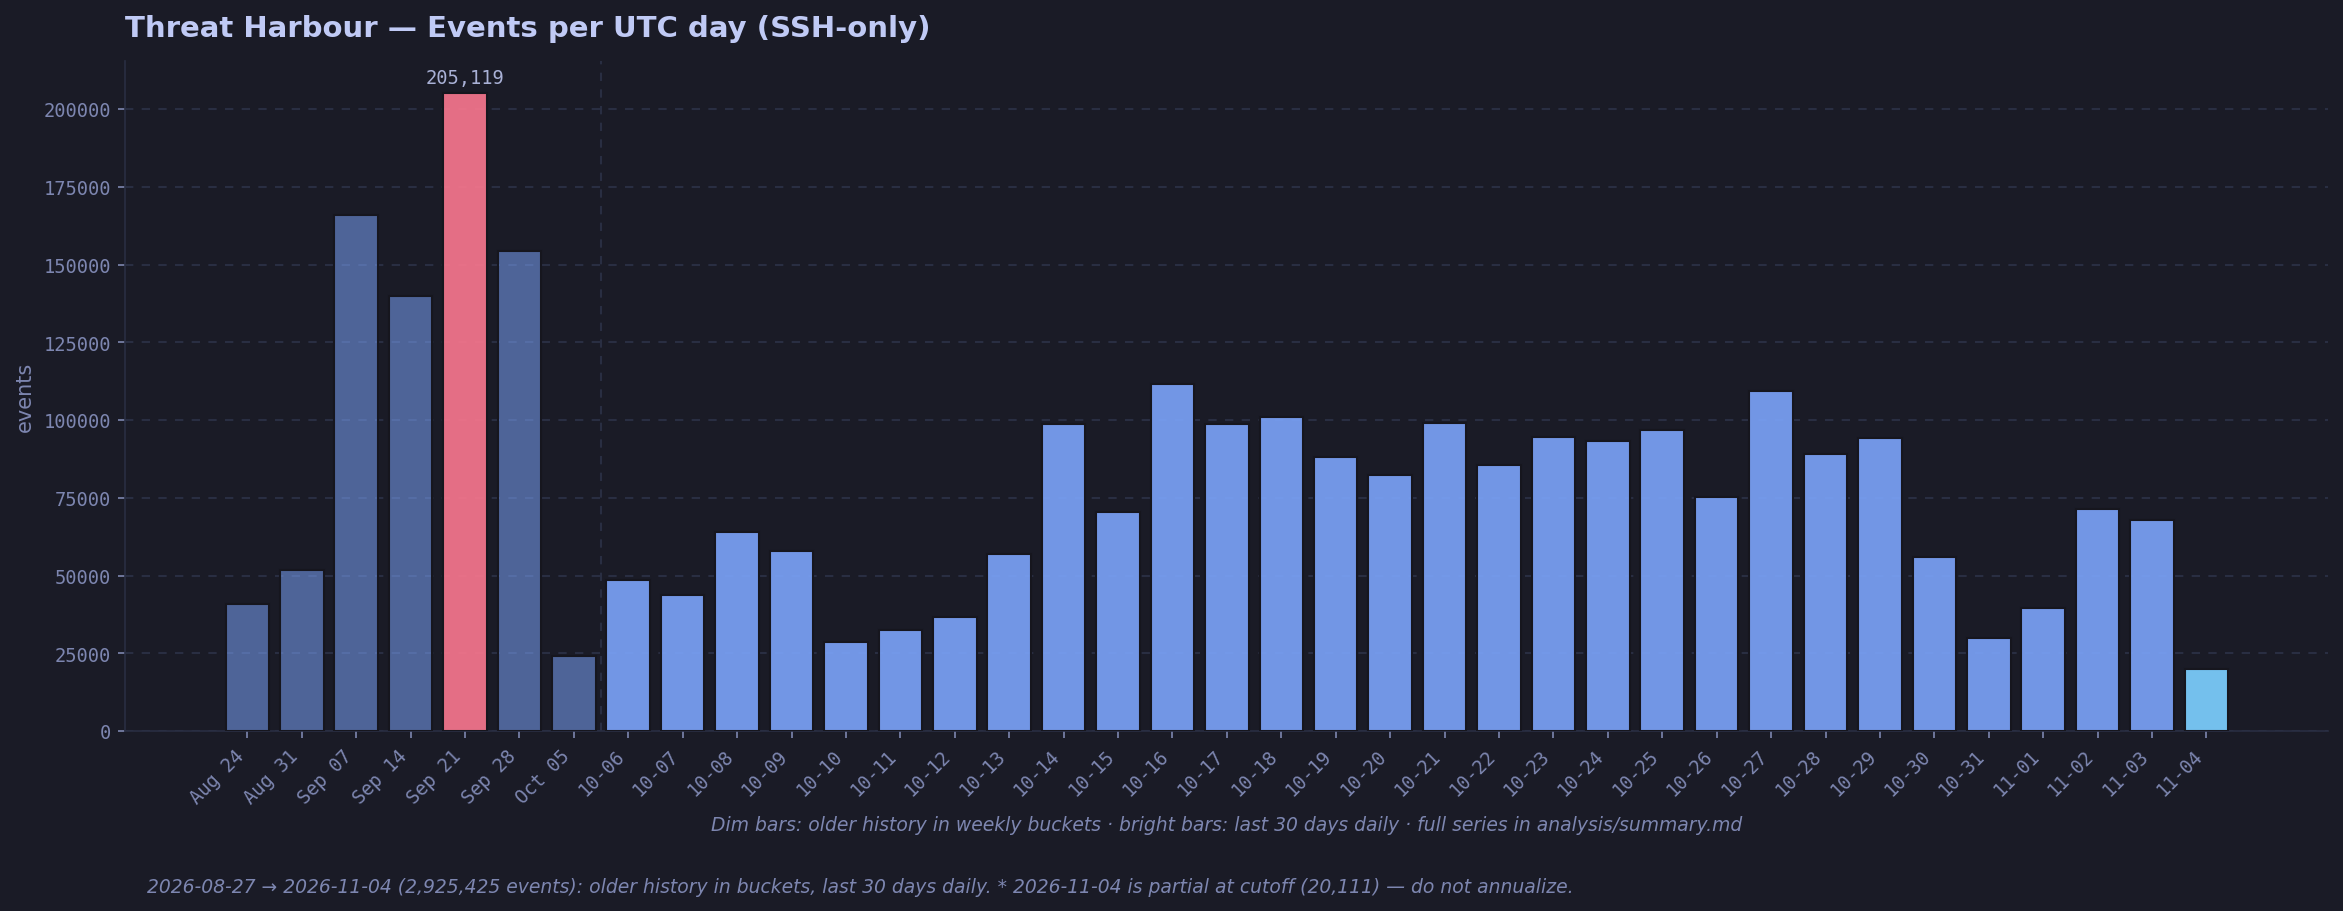
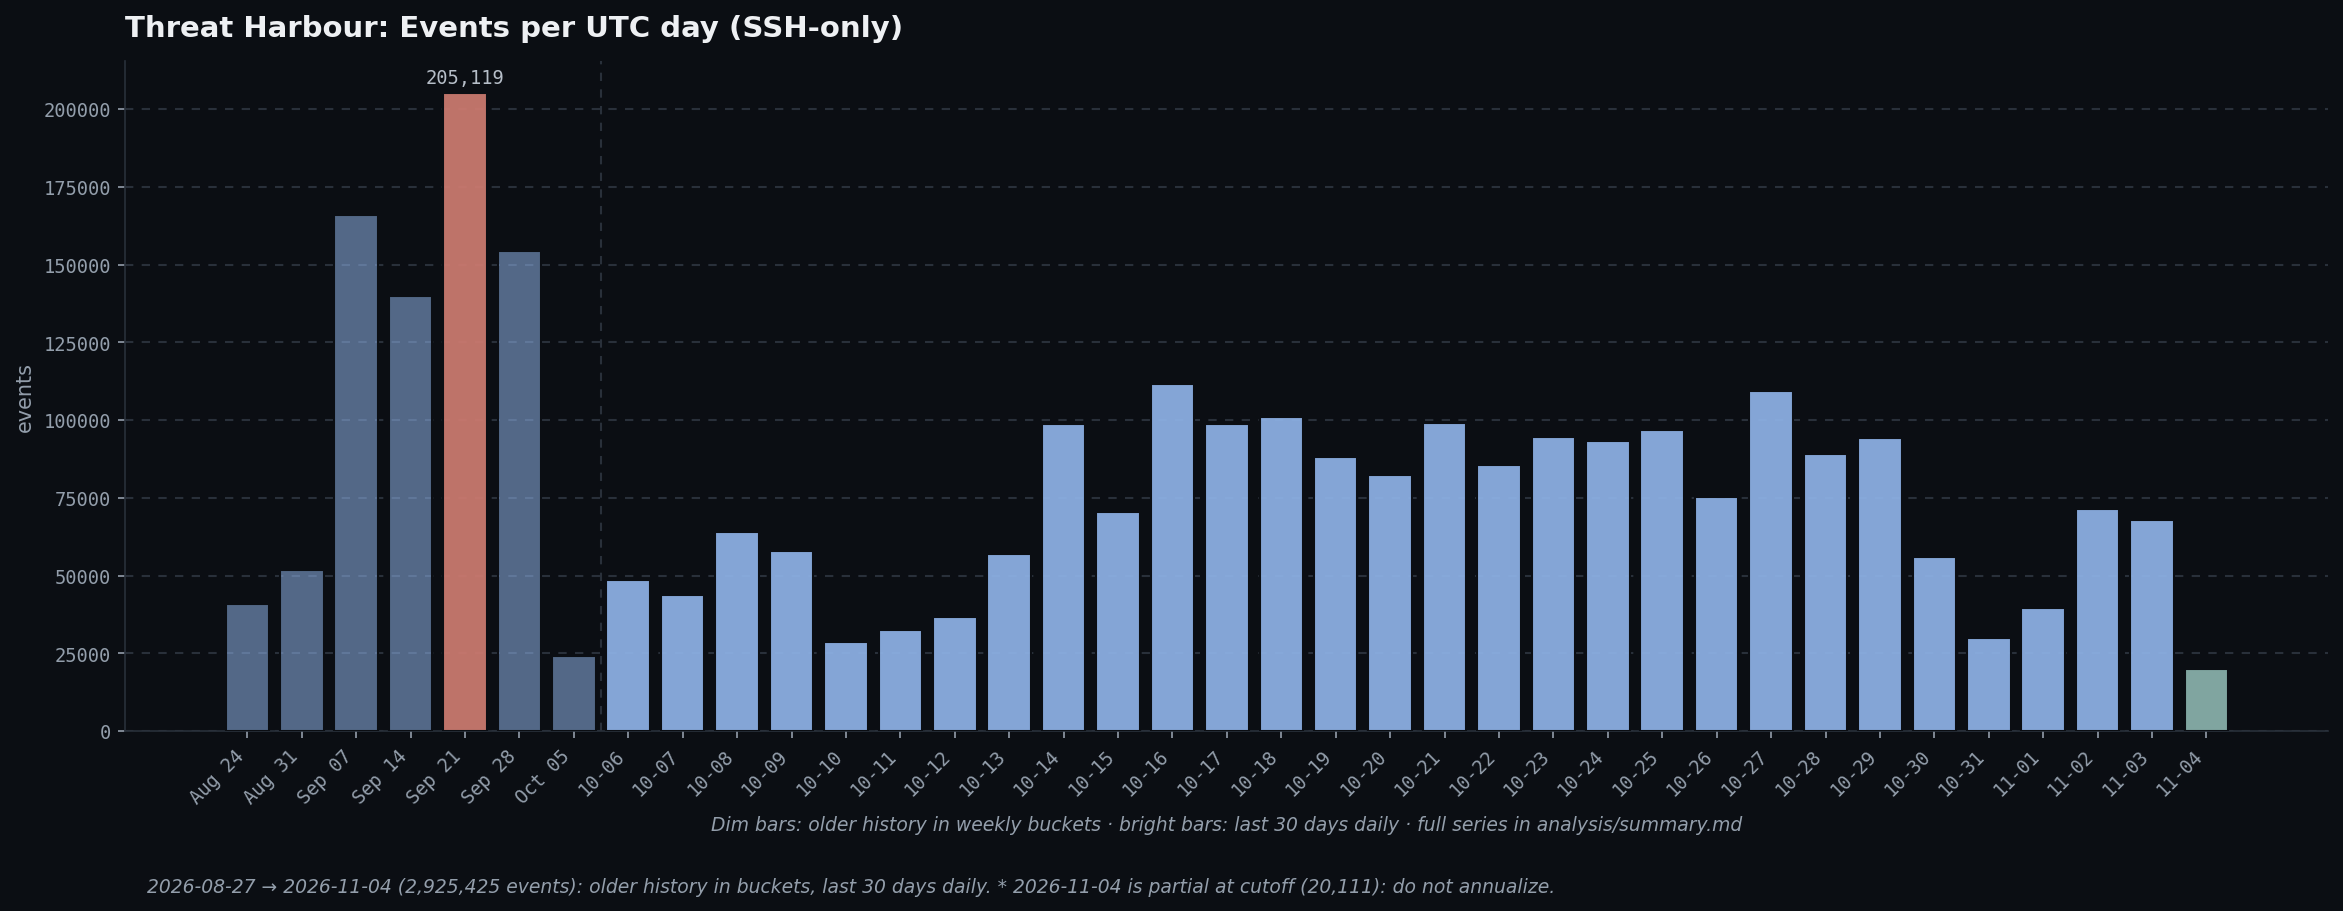
Updated graph colours

diff --git a/scripts/render.py b/scripts/render.py
@@ -47,19 +47,19 @@ WEEKLY_SPAN_LIMIT = 84
 SUMMARY_INLINE_DAYS = 30
 # Absolute-count highlight cutoff (currently unused for colour; kept so
 # archived payloads/metrics carrying it still validate conceptually).
-# Tokyo Night (matches aaadarsh1337.github.io/intel + css/tokens.css).
-# Site chart reference: base bars #7aa2f7 @0.75, peak #f7768e, latest #7dcfff,
-# grid #292e42, values #a9b1d6, axis labels #7d86b0, Mono for numbers.
-T_BG = "#1a1b26"      # --bg-elev (.panel background)
-T_FIG_EDGE = "#16161e"  # --bg (figure edge / bar outlines)
-T_GRID = "#292e42"    # --line
-T_INK = "#c0caf5"     # --ink (titles, values)
-T_MUTED = "#a9b1d6"   # --muted (subtitles, bar labels)
-T_FAINT = "#7d86b0"   # --faint (axis ticks, footers)
-T_BLUE = "#7aa2f7"    # --accent-2 (base bars)
-T_CYAN = "#7dcfff"    # --accent (latest / partial bucket)
-T_PINK = "#f7768e"    # --danger (peak)
-T_PURPLE = "#bb9af7"  # kpi-3 accent (funnel stage 3)
+# Lunar (matches aaadarsh1337.github.io/intel and its src/styles/tokens.css, night theme).
+# Base bars --blue, peak --lily, latest --tide; grid --rule-2, values --bone, labels --fg-2,
+# axis text --muted; the background is the page's own --bg so the image sits flush on it.
+T_BG = "#0b0e13"      # --bg (page and figure background)
+T_FIG_EDGE = "#0b0e13"  # --bg (bar outlines)
+T_GRID = "#29303a"    # --rule-2
+T_INK = "#eef0f3"     # --bone (titles, values)
+T_MUTED = "#b6bec8"   # --fg-2 (subtitles, bar labels)
+T_FAINT = "#939eab"   # --muted (axis ticks, footers)
+T_BLUE = "#8fb3e8"    # --blue (base bars, funnel stage 1)
+T_TIDE = "#8bb3ad"    # --tide (latest / partial bucket, funnel stage 2)
+T_LANTERN = "#d2b177" # --lantern (funnel stage 3)
+T_LILY = "#cf7c71"    # --lily (peak, funnel stage 4)
 T_MONO = "monospace"
 T_SANS = "sans-serif"
 
@@ -498,9 +498,9 @@ def draw_timeline(m, path):
     for i, c in enumerate(counts):
         in_agg = section_split is not None and i < section_split
         if c == peak:
-            colors.append(to_rgba(T_PINK, 0.92))
+            colors.append(to_rgba(T_LILY, 0.92))
         elif i == last_idx:
-            colors.append(to_rgba(T_CYAN, 0.92))
+            colors.append(to_rgba(T_TIDE, 0.92))
         else:
             colors.append(to_rgba(T_BLUE, 0.55 if in_agg else 0.92))
     bars = ax.bar(labels, counts, color=colors, edgecolor=T_FIG_EDGE,
@@ -582,7 +582,7 @@ def draw_funnel(m, path):
     # Log scale can't render 0; floor at 0.5 for the bar but label the truth.
     plot_vals = [max(v, 0.5) for v in vals]
     bars = ax.bar(stages, plot_vals,
-                  color=[T_BLUE, T_CYAN, T_PURPLE, T_PINK],
+                  color=[T_BLUE, T_TIDE, T_LANTERN, T_LILY],
                   edgecolor=T_FIG_EDGE, linewidth=1.5, width=0.55,
                   alpha=0.92, zorder=3)
     ax.set_yscale("log")

diff --git a/README.md b/README.md
@@ -4,6 +4,8 @@
 > A Cowrie SSH honeypot on Oracle Cloud Free Tier that publishes a **fresh leaderboard of real attacker credentials every 24 hours**: the usernames, passwords, and commands bots actually try against SSH servers in the wild.
 
 > **Live site: [aaadarsh1337.github.io/intel](https://aaadarsh1337.github.io/intel)**: interactive charts + credential leaderboard, refreshed daily. No login required. Start there; this README is the data + method behind it.
+>
+> **Indicators:** [iocs.txt](https://aaadarsh1337.github.io/intel/iocs.txt) · [iocs.csv](https://aaadarsh1337.github.io/intel/iocs.csv) · [iocs.json](https://aaadarsh1337.github.io/intel/iocs.json): the hashes, file paths, source networks and credentials from these aggregates, regenerated daily.
 
 ## Why this exists
 
